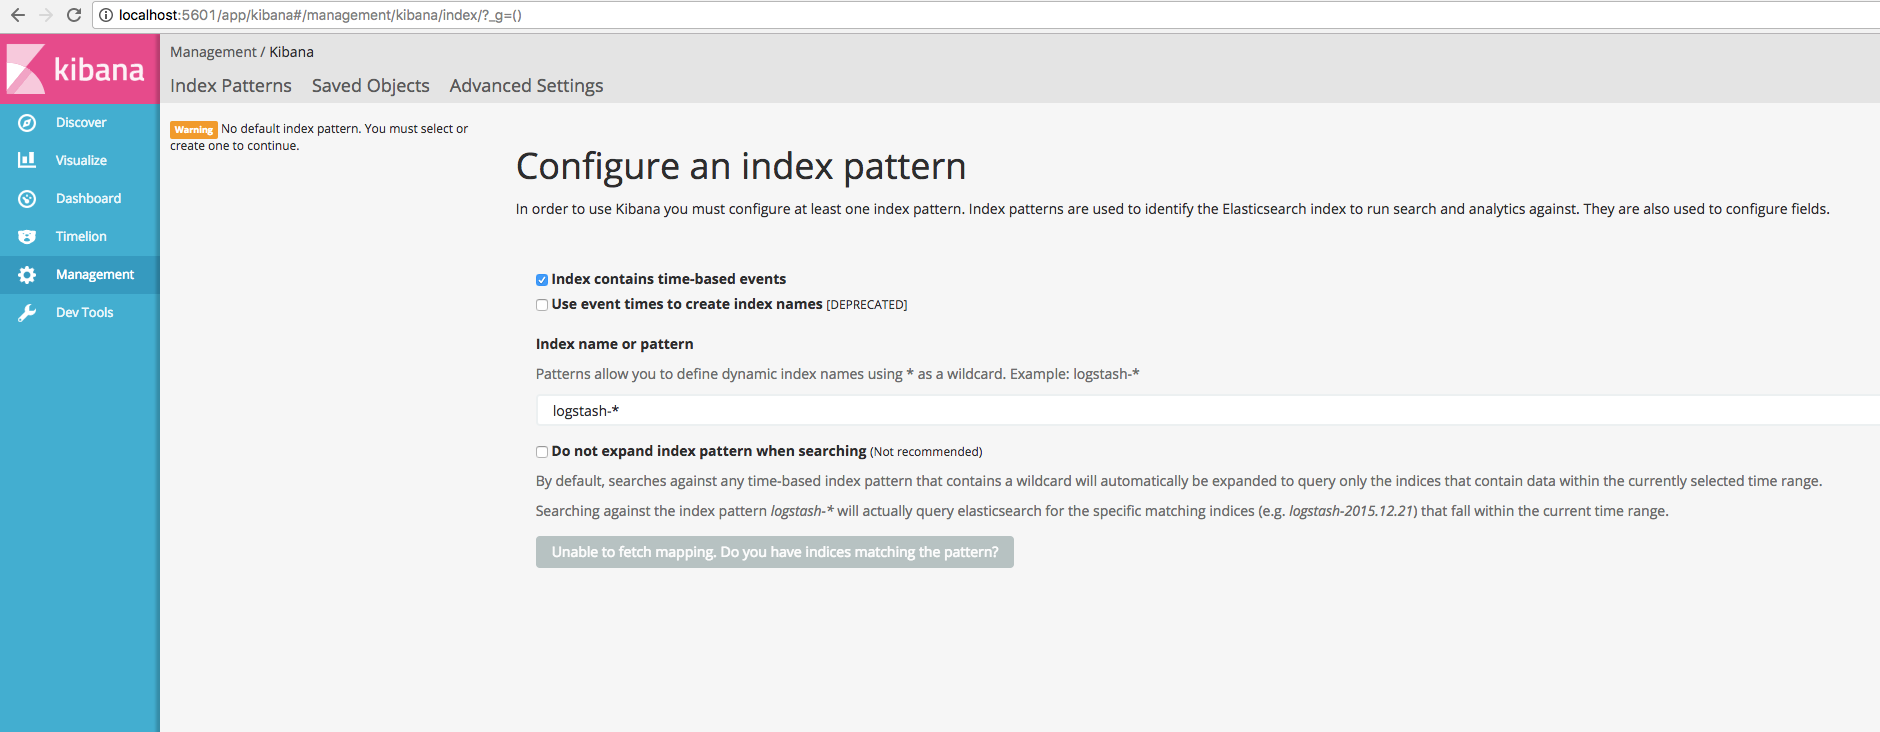
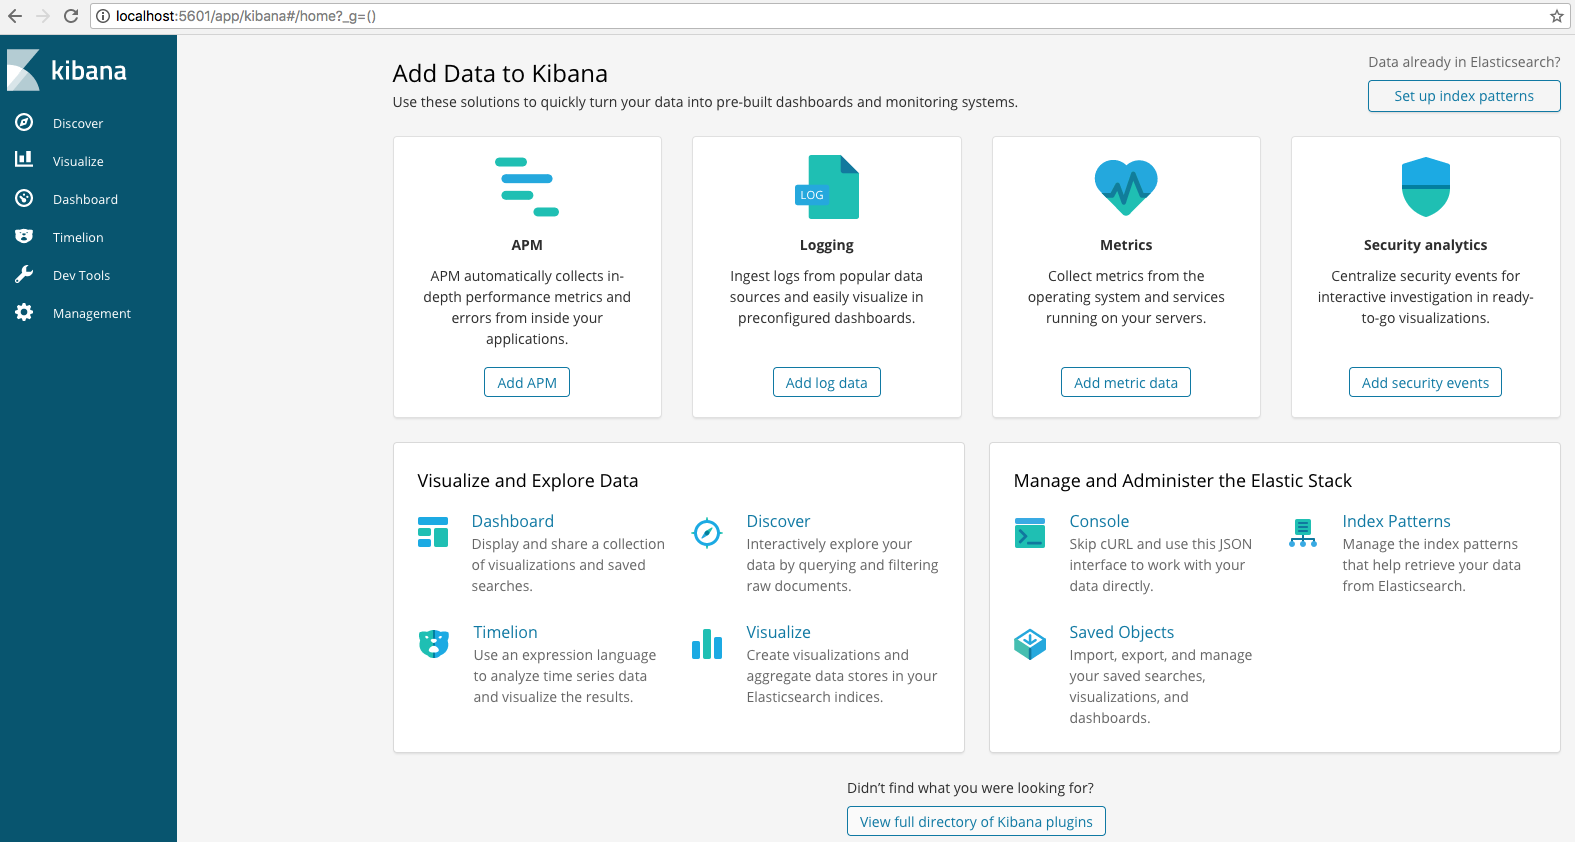
upgraded elk to 6.2.4 (make use of the oss distribution)

diff --git a/README.md b/README.md
@@ -67,10 +67,10 @@ Load the logs between 2 specific date times from all the instances tagged with n
 Setup Kibana to analyse your logs:
 
 * Access Kibana
-* Select ```Settings``` -> ```Indices``` -> ```Configure an index pattern```
-* Set the ec2 name used to extract the logs in the ```Index name or pattern``` field
-* Kibana will fetch the index mapping and propose ```timestamp``` as Time-field name
-* Click on Create and ... you are good to go!
+* Select ```Set up index patterns```
+* Set the ec2 name used to extract the logs in the ```Index pattern``` field
+* Kibana will fetch the index mapping and propose ```timestamp``` as Time Filter field name
+* Click on Create Index Pattern and ... you are good to go!
 
 Click on Discover and start analysing your logs.
 
